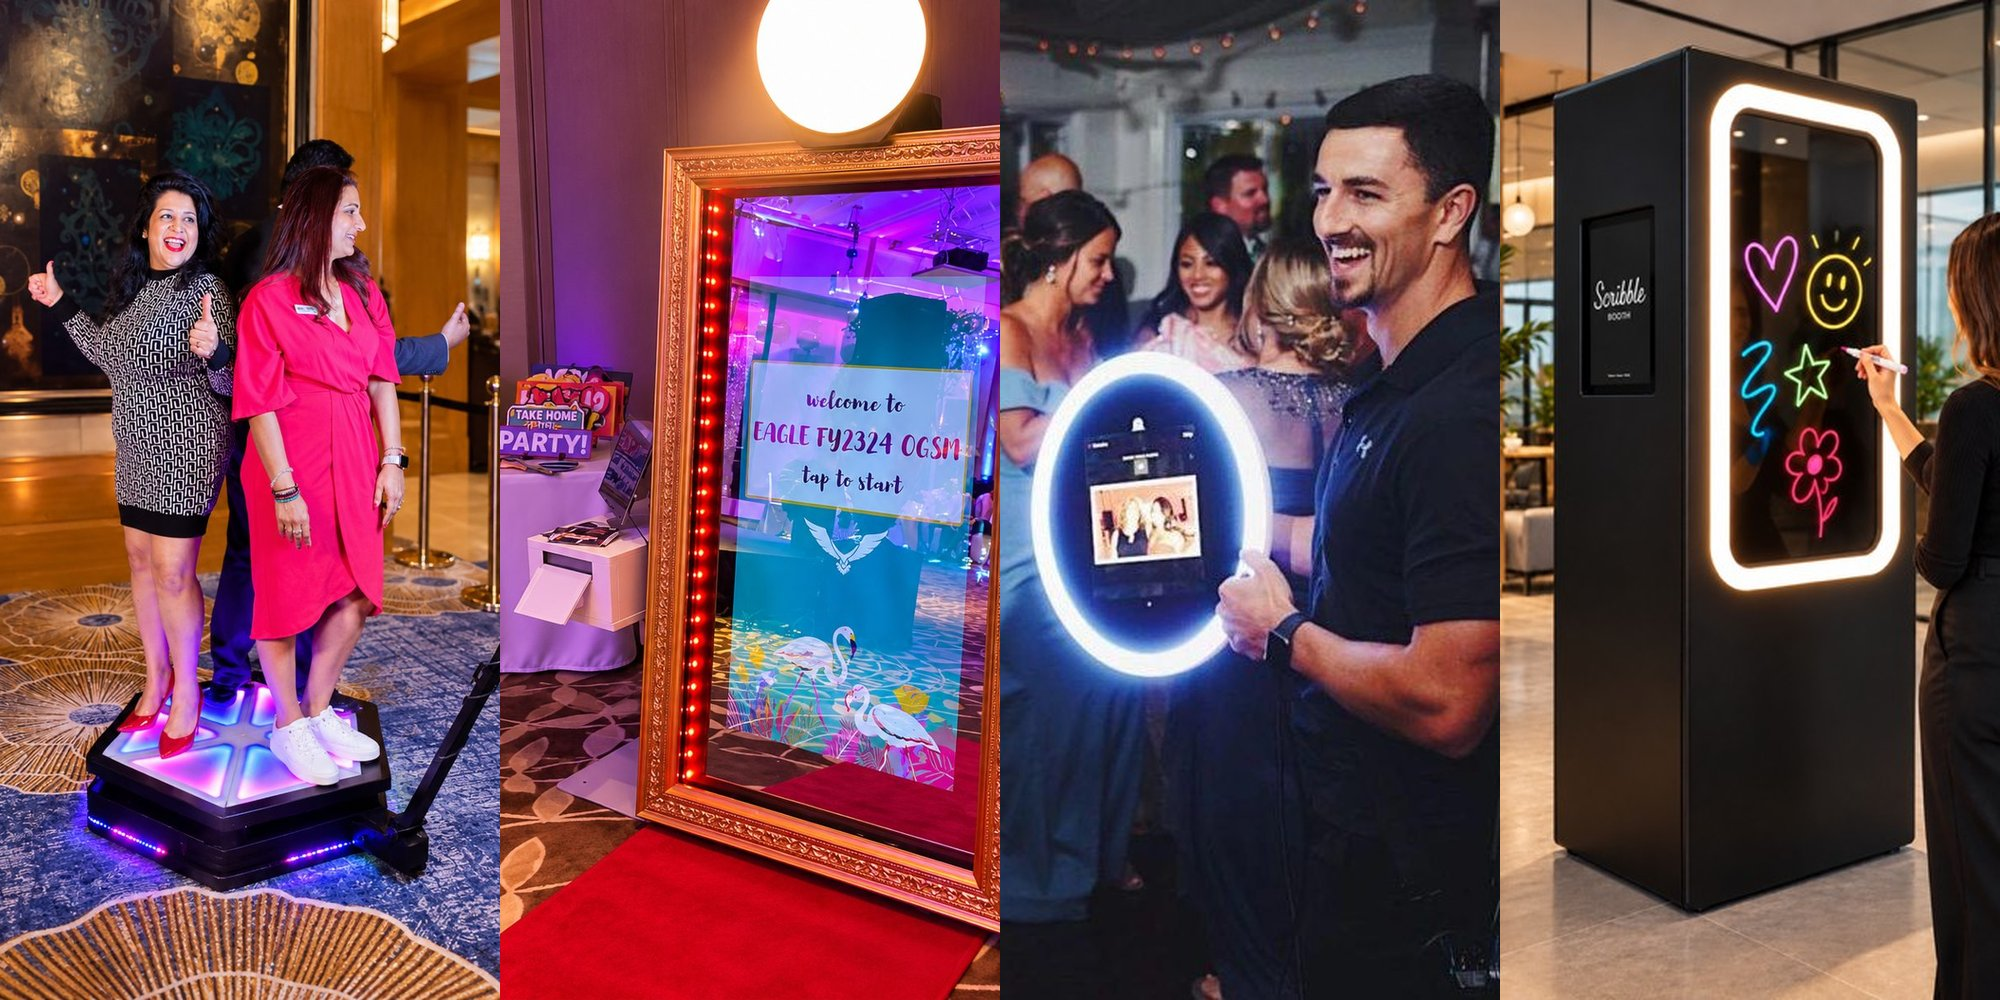
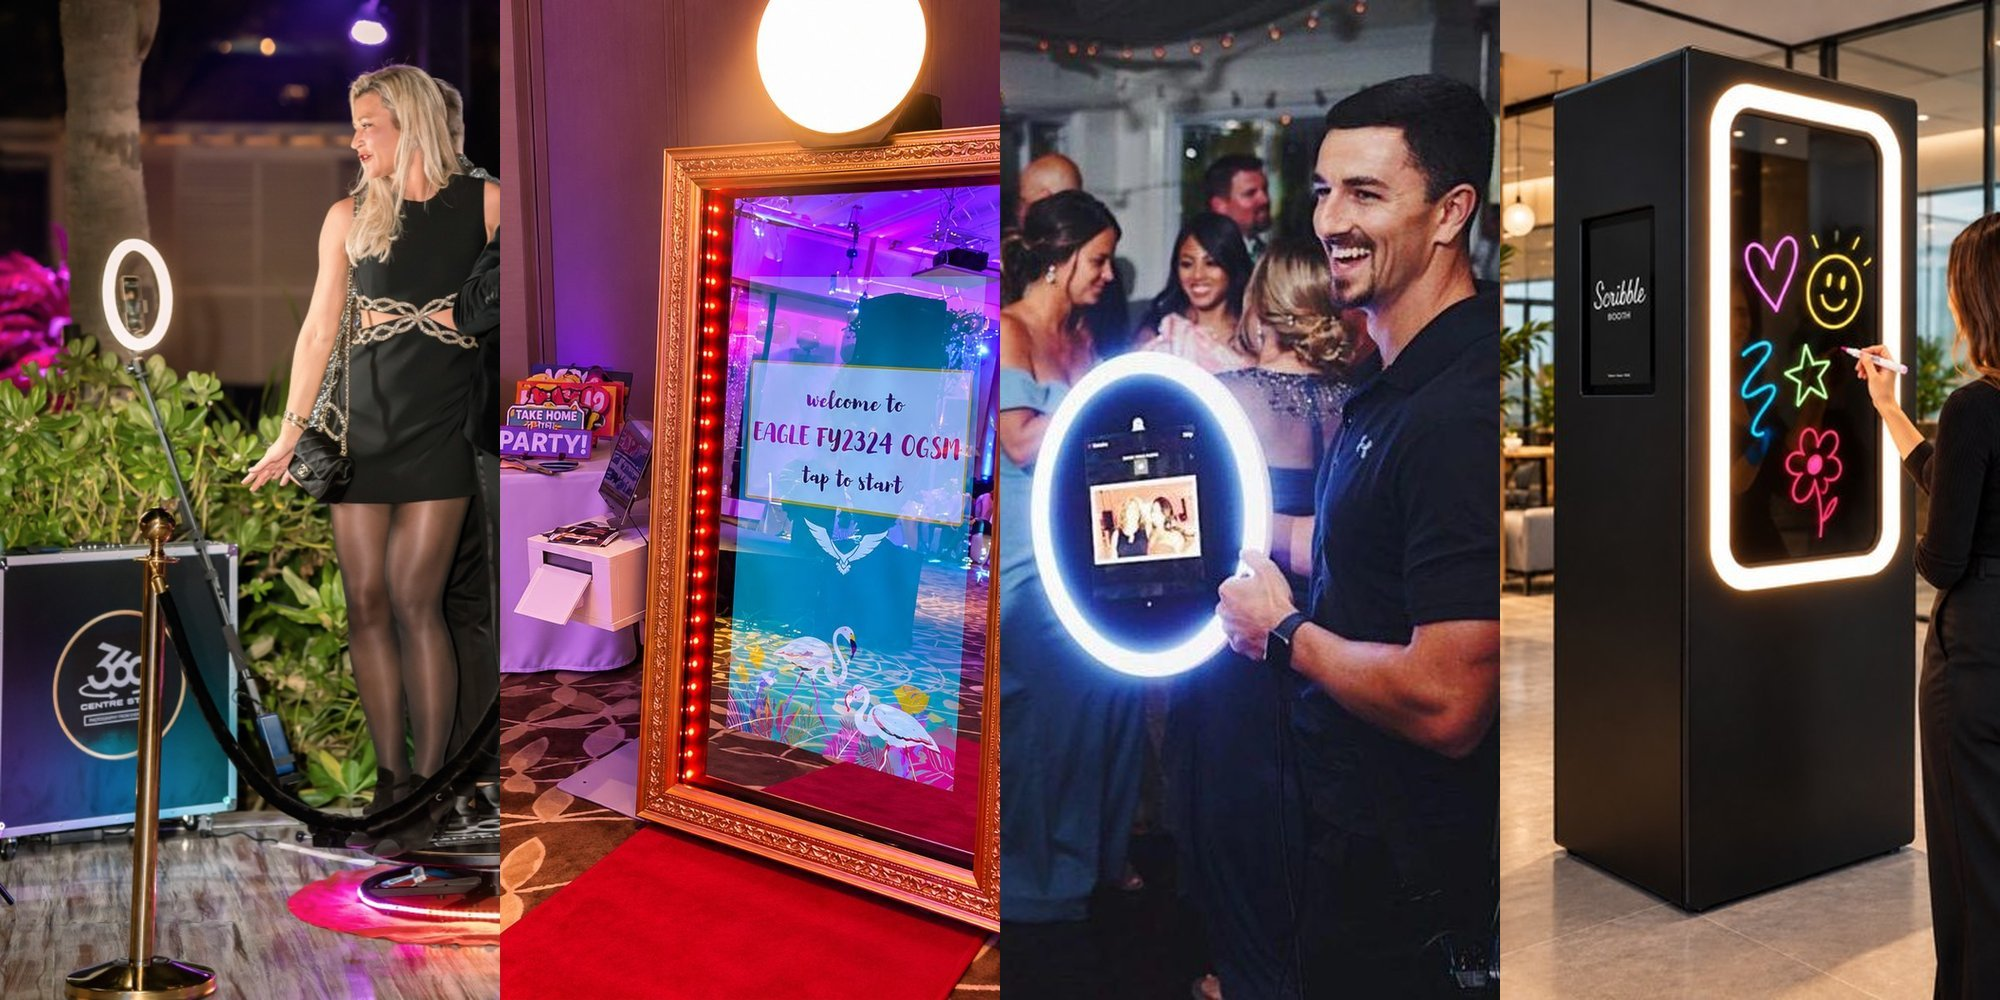
Photo booths: use our own 360 Centre Stage photo in the header and on the 360 card
Claude-Session: https://claude.ai/code/session_013uTUHiFyWxyJbYSmCV45EA

Changed region(s): [[0.0, 0.0, 0.248, 1.0]]

diff --git a/photobooths.html b/photobooths.html
@@ -516,7 +516,7 @@
                 <article class="fs-card" id="360">
                     <div class="fs-card-stripe"></div>
                     <div class="fs-card-photo-wrap">
-                        <img src="photobooth-photos/360.jpg" alt="360 Video Booth hire Dubai" loading="lazy">
+                        <img src="photobooth-photos/360.jpg?v=3" alt="360 Video Booth hire Dubai" loading="lazy">
                     </div>
                     <div class="fs-card-body">
                         <h3>360 Video Booth</h3>
